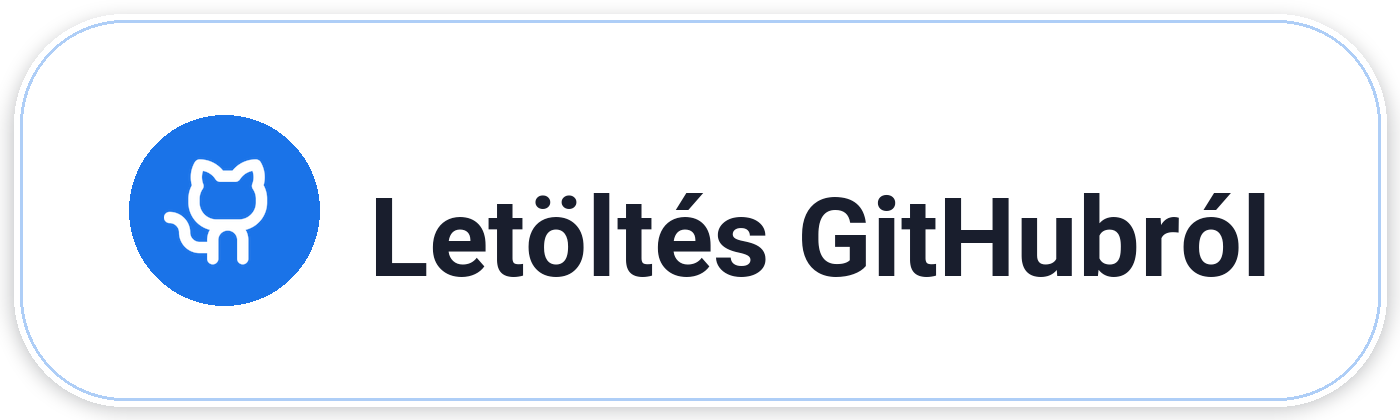
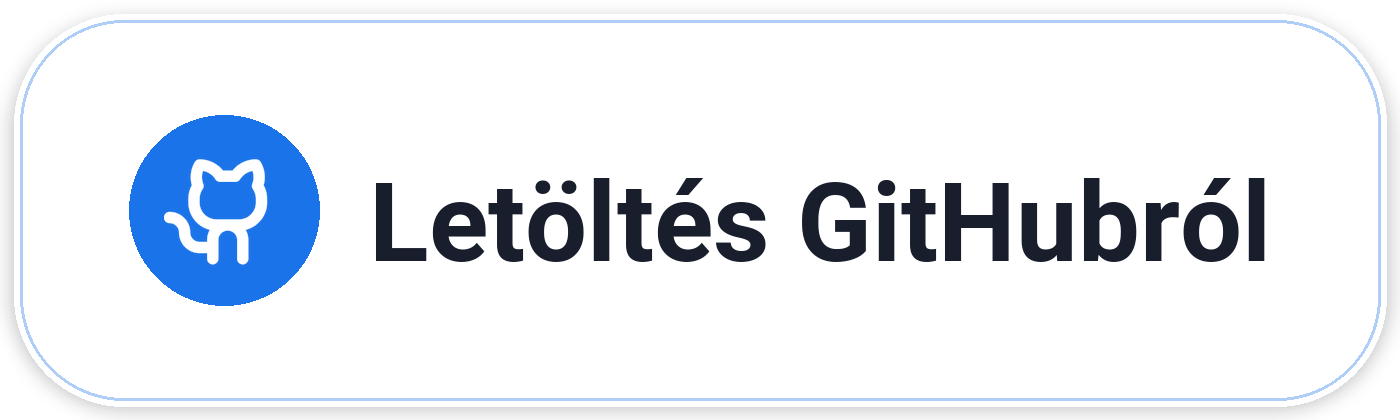
README kepek helyi fajlokra + gomb-szoveg vertikal center
- README: user-attachments URL-ek helyett helyi tools/play_white/out
  kepek (feature graphic, 4 screenshot, 2 letolto gomb)
- github_button: szoveg lm-anchorral fuggolegesen centrezve

Changed region(s): [[0.2457, 0.4024, 0.9214, 0.681], [0.2457, 0.4333, 0.3071, 0.4643]]

diff --git a/tools/play_white/github_button.py b/tools/play_white/github_button.py
@@ -51,7 +51,8 @@ def make_button(text, icon_name, out_name):
     d.ellipse([cx, cy - dot // 2, cx + dot, cy + dot // 2], fill=ACCENT)
     ic = phosphor(icon_name, 120)
     btn.paste(ic, (cx + dot // 2 - 60, cy - 60), ic)
-    d.text((cx + dot + gap, cy - bh // 2 - 8), text, font=fb, fill=(25, 30, 45))
+    # fuggolegesen centrezve (lm anchor + kis optikai korrekcio az ekezetek miatt)
+    d.text((cx + dot + gap, cy + 8), text, font=fb, fill=(25, 30, 45), anchor="lm")
 
     p = HERE / "out" / out_name
     btn.save(p)

diff --git a/README.md b/README.md
@@ -1,14 +1,14 @@
 # Tömegközlekedés
-<img width="1024" height="500" alt="featureGraphic" src="https://github.com/user-attachments/assets/0d818522-379a-464a-8677-fc66e92027db" />
+<img width="1024" height="500" alt="featureGraphic" src="tools/play_white/out/featureGraphic.png" />
 
-<img width="240" height="450" alt="01_one_jegyek-page" src="https://github.com/user-attachments/assets/421da8bb-95b1-4627-a9e5-85251ac1e422" />
-<img width="240" height="450" alt="02_one_jegykep-full" src="https://github.com/user-attachments/assets/1e270ead-25f4-4358-9694-306b19d637e8" />
-<img width="240" height="450" alt="03_duo_login-register" src="https://github.com/user-attachments/assets/09e90aa9-b452-4cec-9a0f-59c8a8cbc839" />
-<img width="240" height="450" alt="04_one_news-page" src="https://github.com/user-attachments/assets/7c4fd8c3-2885-4093-9c2e-b405ad71245c" />
+<img width="240" height="450" alt="01_one_jegyek-page" src="tools/play_white/out/01_one_jegyek-page.png" />
+<img width="240" height="450" alt="02_one_jegykep-full" src="tools/play_white/out/02_one_jegykep-full.png" />
+<img width="240" height="450" alt="03_duo_login-register" src="tools/play_white/out/03_duo_login-register.png" />
+<img width="240" height="450" alt="04_one_news-page" src="tools/play_white/out/04_one_news-page.png" />
 
 ## Letöltés
-<a href="https://github.com/domedav/MavJegyApp/releases"><img width="240" alt="Letöltés GitHubról" src="https://github.com/user-attachments/assets/2f40eb52-53cd-4964-91cb-7c07c53e814c" /></a>
-<a href="https://play.google.com/store/apps/details?id=com.domedav.mavjegy"><img width="240" alt="Letöltés Google Playről" src="https://github.com/user-attachments/assets/49aa20db-5fb5-46c9-9286-eb538177b3f1" /></a>
+<a href="https://github.com/domedav/MavJegyApp/releases"><img width="240" alt="Letöltés GitHubról" src="tools/play_white/out/github_button.png" /></a>
+<a href="https://play.google.com/store/apps/details?id=com.domedav.mavjegy"><img width="240" alt="Letöltés Google Playről" src="tools/play_white/out/googleplay_button.png" /></a>
 
 ## Használat
 
@@ -44,5 +44,5 @@ egy nyílt, a hivatalos klienstől független alternatív felületet biztosítso
 Az appot többféle AI ágens készítette *(Muse Spark 1.3, MiMo V2.5, Hy3)*, OpenCode alatt, illetve többféle python könyvtár használatával készültek a grafikus elemek.
 
 ## Letöltés
-<a href="https://github.com/domedav/MavJegyApp/releases"><img width="240" alt="Letöltés GitHubról" src="https://github.com/user-attachments/assets/2f40eb52-53cd-4964-91cb-7c07c53e814c" /></a>
-<a href="https://play.google.com/store/apps/details?id=com.domedav.mavjegy"><img width="240" alt="Letöltés Google Playről" src="https://github.com/user-attachments/assets/49aa20db-5fb5-46c9-9286-eb538177b3f1" /></a>
+<a href="https://github.com/domedav/MavJegyApp/releases"><img width="240" alt="Letöltés GitHubról" src="tools/play_white/out/github_button.png" /></a>
+<a href="https://play.google.com/store/apps/details?id=com.domedav.mavjegy"><img width="240" alt="Letöltés Google Playről" src="tools/play_white/out/googleplay_button.png" /></a>
